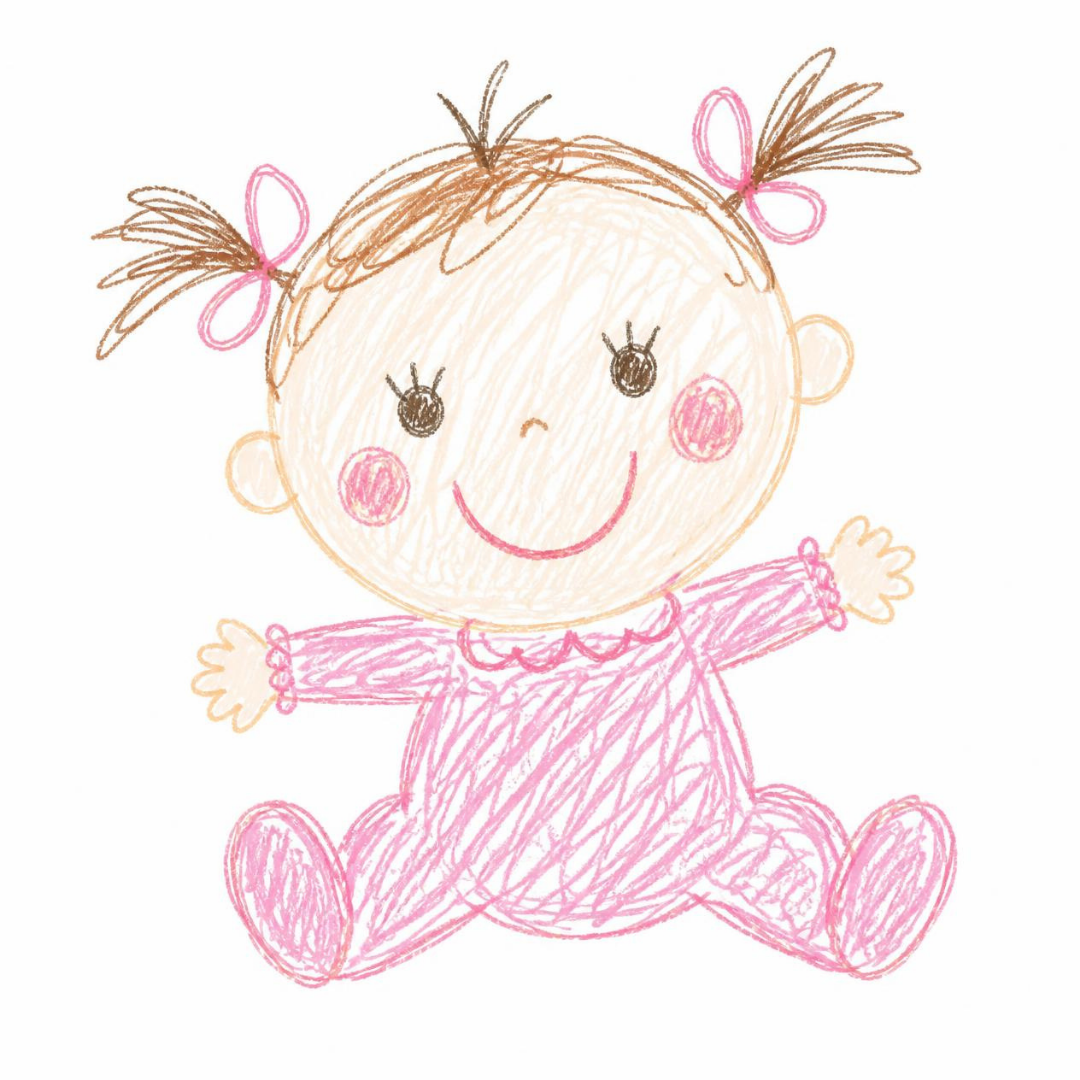
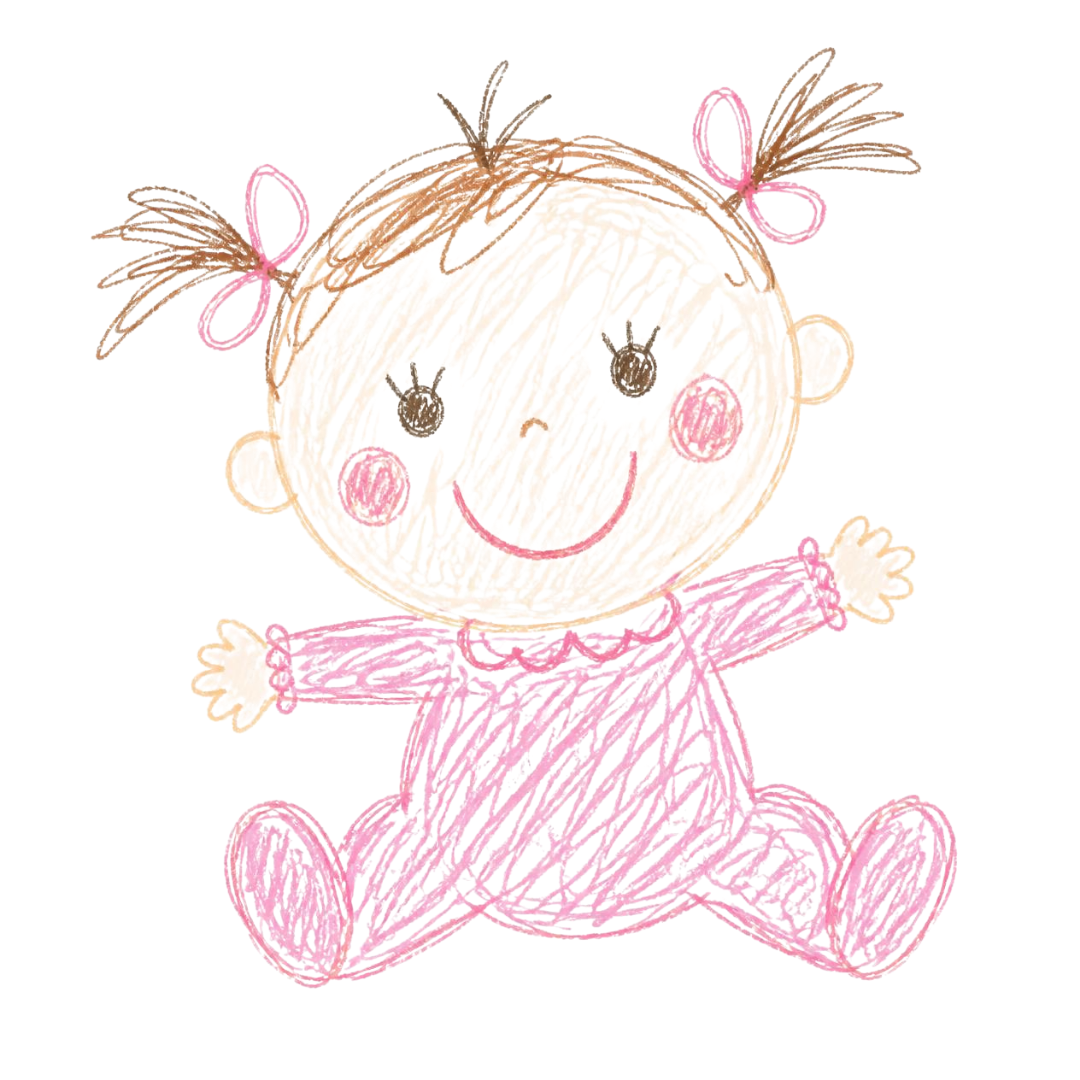
Design-04・05を透過版に差し替え、不要な枠フレームを削除

Changed region(s): [[0.0917, 0.0611, 0.8556, 0.3361], [0.3667, 0.3361, 0.4278, 0.4278], [0.55, 0.3056, 0.6111, 0.3972]]

diff --git a/home.html b/home.html
@@ -57,10 +57,6 @@
     left: -60px;
     transform: rotate(-7deg);
   }
-  .decor-card {
-    border-radius: 16px;
-    border: 1px solid var(--border);
-  }
   .decor-sun {
     width: 90px;
     top: 4px;
@@ -256,7 +252,7 @@
 
   <div class="hero">
     <div class="wrap">
-      <img class="decor decor-card decor-sun" src="screenshots/Design-05.png" alt="" aria-hidden="true">
+      <img class="decor decor-sun" src="screenshots/Design-05.png" alt="" aria-hidden="true">
       <img class="icon" src="icon.png" alt="こそだてバトン アイコン">
       <h1>こそだてバトン</h1>
       <p class="tagline">ママが不在の「もしも」に、パパが迷わず対応できる共有アプリ。</p>
@@ -332,7 +328,7 @@
 
   <section class="cta">
     <div class="wrap">
-      <img class="decor decor-card decor-baby" src="screenshots/Design-04.png" alt="" aria-hidden="true">
+      <img class="decor decor-baby" src="screenshots/Design-04.png" alt="" aria-hidden="true">
       <h2>こそだてバトンをはじめる</h2>
       <div class="cta-links">
         <a class="secondary" href="./index.html">サポート・よくある質問</a>
